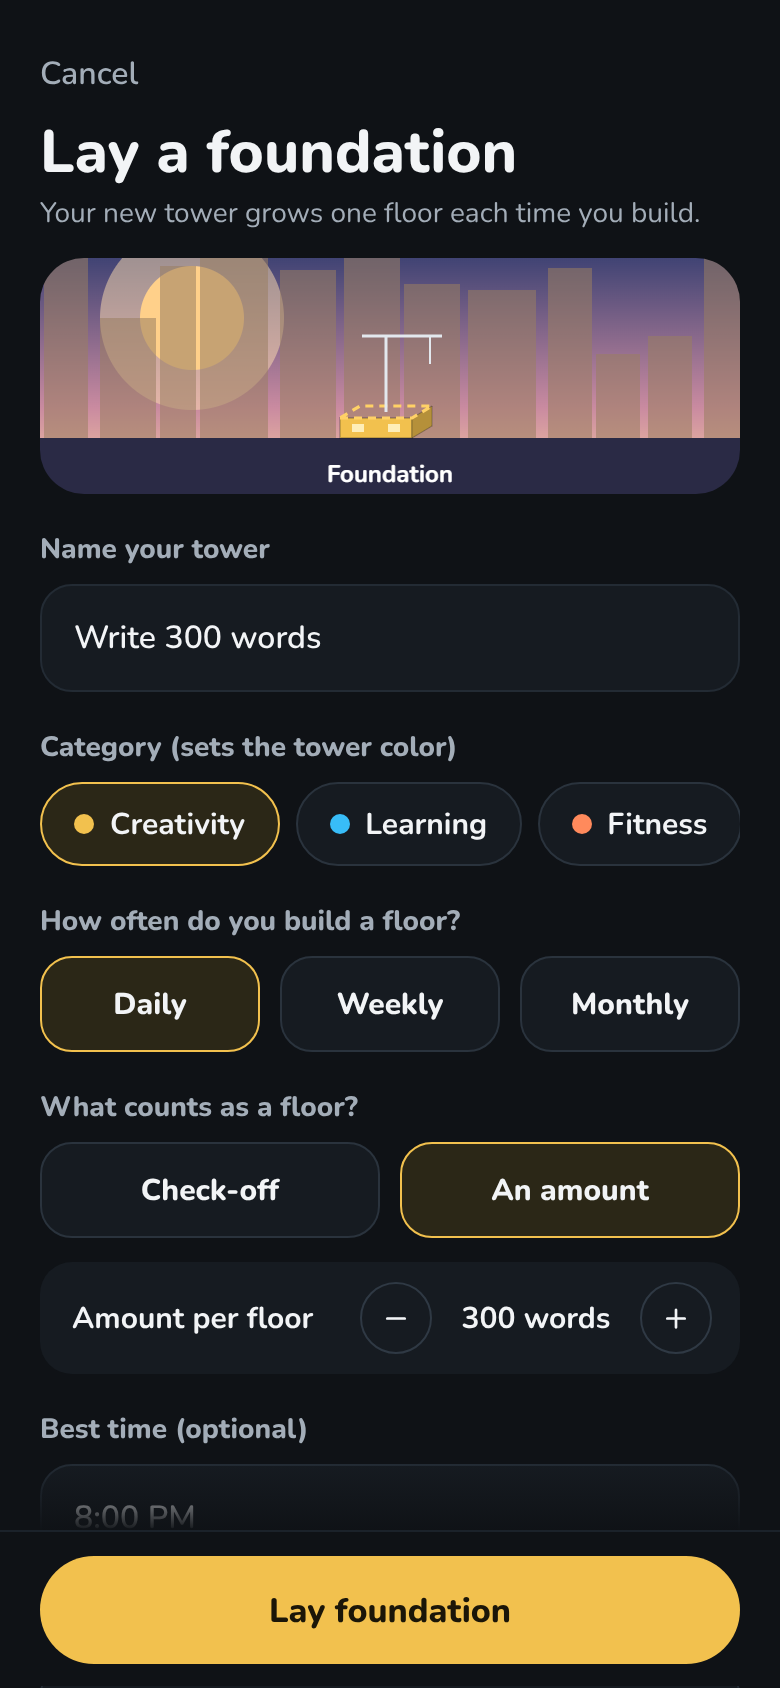
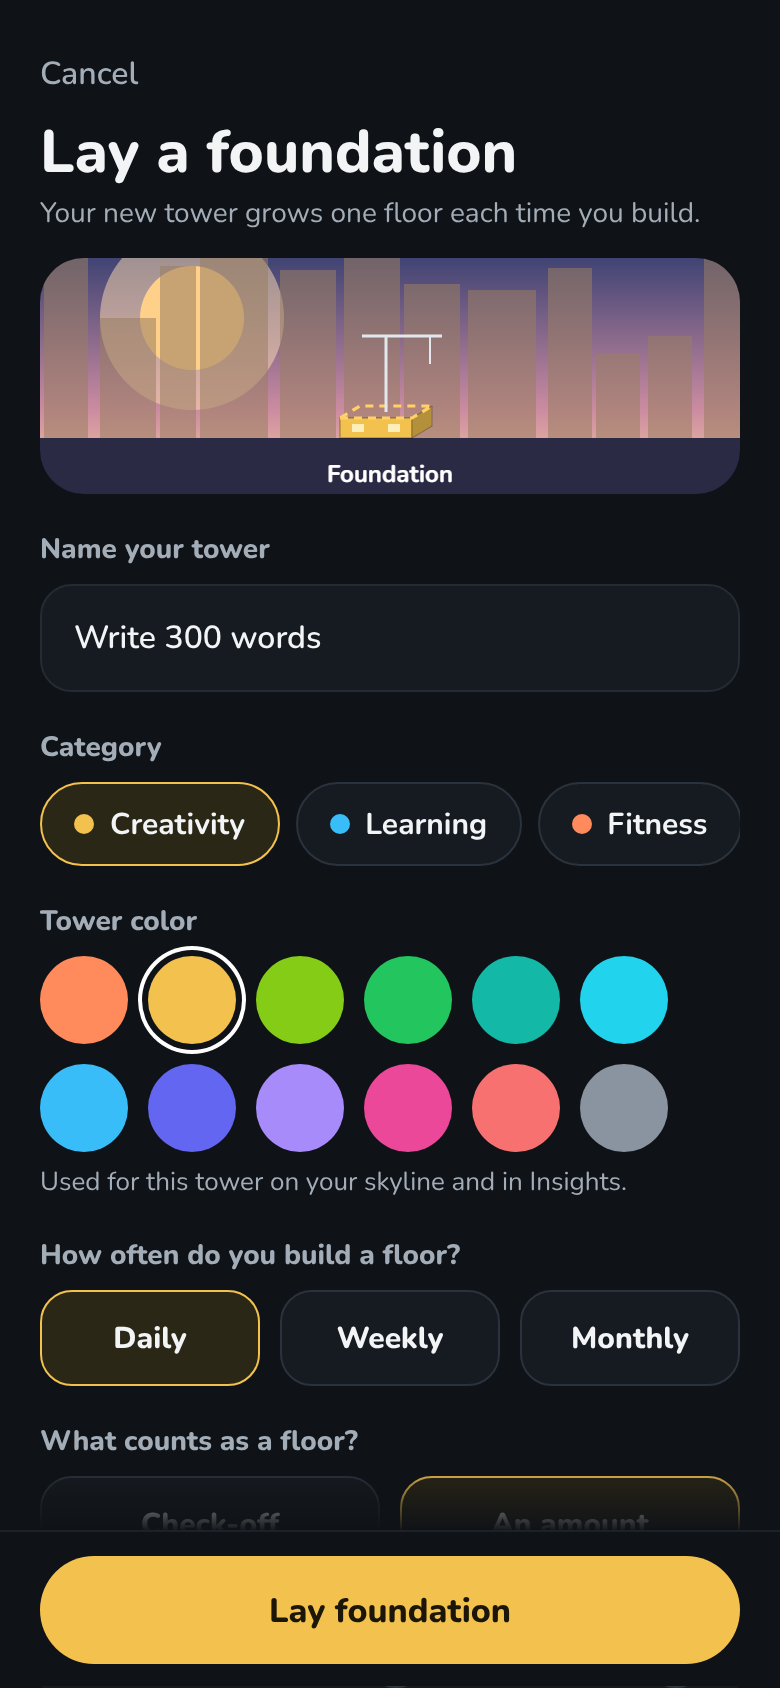
Design: tower color picker on create and edit forms (owner decision: distinct, user-picked colour per habit)
Claude-Session: https://claude.ai/code/session_01UvWD32uMFJU1E2B9jDYiLg

diff --git a/design/skyline/source/new.js b/design/skyline/source/new.js
@@ -118,11 +118,12 @@ const stepRow=(l,v)=>`<div style="margin-top:12px;height:56px;border-radius:16px
 const banner=(f)=>`<div style="width:350px;height:118px;border-radius:22px;overflow:hidden;position:relative;margin-top:12px"><img src="${SK}${f}" style="position:absolute;width:390px;left:-20px;top:-110px"></div>`;
 const formPage=(title,sub,ban,body,cta,extraFooter='')=>`<div style="position:absolute;inset:0;overflow:hidden"><div style="padding:26px 20px 0;height:100%;overflow:hidden"><div style="color:#A3ADB8;font-size:16px;font-weight:600">Cancel</div><h1 style="font-size:30px;margin-top:12px;line-height:1.1">${title}</h1><div style="color:#A3ADB8;font-size:14px;margin-top:4px;line-height:1.4">${sub}</div>${ban||''}${body}</div>
  <div style="position:absolute;left:0;right:0;bottom:0;height:${extraFooter?150:112}px"><div style="height:34px;background:linear-gradient(rgba(15,18,22,0),#0F1216)"></div><div style="background:#0F1216;border-top:1px solid #1B222A;padding:12px 20px 18px;height:calc(100% - 34px);margin-top:-1px">${cta}${extraFooter}</div></div></div>`;
+const swatches=(on)=>`<div style="display:flex;gap:10px;flex-wrap:wrap">${['#FF8A5C','#F2C14E','#84CC16','#22C55E','#14B8A6','#22D3EE','#38BDF8','#6366F1','#A78BFA','#EC4899','#F87171','#8A93A0'].map((c,i)=>`<div style="width:44px;height:44px;border-radius:22px;background:${c};${i===on?'box-shadow:0 0 0 3px #0F1216,0 0 0 5px #fff':''}"></div>`).join('')}</div>`;
 const cta=(t)=>`<div style="height:54px;border-radius:27px;background:#F2C14E;color:#1b1608;font-weight:800;font-size:17px;display:flex;align-items:center;justify-content:center">${t}</div>`;
 const chip=(t,c,on)=>`<div style="height:42px;border-radius:21px;padding:0 16px;display:flex;align-items:center;gap:8px;font-weight:700;font-size:15px;white-space:nowrap;${on?'background:#2B2717;border:1.5px solid #F2C14E':'background:#161B21;border:1px solid #2A333D'}"><i style="width:10px;height:10px;border-radius:50%;background:${c};display:block"></i>${t}</div>`;
 if(S2==='fo-new'){
   R.innerHTML=formPage('Lay a foundation','Your new tower grows one floor each time you build.',banner('superseded/12-newtower-v1.png'),
-   lab('Name your tower')+inp('Write 300 words')+lab('Category (sets the tower color)')+`<div style="display:flex;gap:8px;overflow:hidden">${chip('Creativity','#F2C14E',1)}${chip('Learning','#38BDF8')}${chip('Fitness','#FF8A5C')}${chip('Sleep','#A78BFA')}</div>`+lab('How often do you build a floor?')+seg2(['Daily','Weekly','Monthly'],0)+lab('What counts as a floor?')+seg2(['Check-off','An amount'],1)+stepRow('Amount per floor','300 words')+lab('Best time (optional)')+inp('8:00 PM')+lab('Why does this matter? (optional)')+inp('So the book gets finished'),
+   lab('Name your tower')+inp('Write 300 words')+lab('Category')+`<div style="display:flex;gap:8px;overflow:hidden">${chip('Creativity','#F2C14E',1)}${chip('Learning','#38BDF8')}${chip('Fitness','#FF8A5C')}${chip('Sleep','#A78BFA')}</div>`+lab('Tower color')+swatches(1)+hint('Used for this tower on your skyline and in Insights.')+lab('How often do you build a floor?')+seg2(['Daily','Weekly','Monthly'],0)+lab('What counts as a floor?')+seg2(['Check-off','An amount'],1)+stepRow('Amount per floor','300 words')+lab('Best time (optional)')+inp('8:00 PM')+lab('Why does this matter? (optional)')+inp('So the book gets finished'),
    cta('Lay foundation'));
 }
 if(S2==='fo-shared'){
@@ -138,7 +139,7 @@ if(S2==='fo-landmark'){
 }
 if(S2==='fo-edit'){
   R.innerHTML=formPage('Edit tower','Changes apply from today. Your floors and run stay as they are.','',
-   lab('Name your tower')+inp('Write 300 words')+lab('Category (sets the tower color)')+`<div style="display:flex;gap:8px;overflow:hidden">${chip('Creativity','#F2C14E',1)}${chip('Learning','#38BDF8')}${chip('Fitness','#FF8A5C')}${chip('Sleep','#A78BFA')}</div>`+lab('How often do you build a floor?')+seg2(['Daily','Weekly','Monthly'],0)+lab('What counts as a floor?')+seg2(['Check-off','An amount'],1)+stepRow('Amount per floor','300 words')+lab('Best time (optional)')+inp('8:00 PM')+lab('Why does this matter? (optional)')+inp('So the book gets finished')+lab('Top out after (days)')+`<div style="margin-top:0;height:56px;border-radius:16px;background:#161B21;display:flex;align-items:center;justify-content:space-between;padding:0 14px 0 16px"><b style="font-size:15px">Days</b><div style="display:flex;align-items:center;gap:14px"><div style="width:36px;height:36px;border-radius:18px;border:1px solid #2F3944;display:flex;align-items:center;justify-content:center;font-size:20px">−</div><b style="font-size:15px;min-width:76px;text-align:center">30</b><div style="width:36px;height:36px;border-radius:18px;border:1px solid #2F3944;display:flex;align-items:center;justify-content:center;font-size:20px">+</div></div></div>`+hint('How old this tower must be before you can top it out and start a new one.'),
+   lab('Name your tower')+inp('Write 300 words')+lab('Category')+`<div style="display:flex;gap:8px;overflow:hidden">${chip('Creativity','#F2C14E',1)}${chip('Learning','#38BDF8')}${chip('Fitness','#FF8A5C')}${chip('Sleep','#A78BFA')}</div>`+lab('Tower color')+swatches(1)+hint('Used for this tower on your skyline and in Insights.')+lab('How often do you build a floor?')+seg2(['Daily','Weekly','Monthly'],0)+lab('What counts as a floor?')+seg2(['Check-off','An amount'],1)+stepRow('Amount per floor','300 words')+lab('Best time (optional)')+inp('8:00 PM')+lab('Why does this matter? (optional)')+inp('So the book gets finished')+lab('Top out after (days)')+`<div style="margin-top:0;height:56px;border-radius:16px;background:#161B21;display:flex;align-items:center;justify-content:space-between;padding:0 14px 0 16px"><b style="font-size:15px">Days</b><div style="display:flex;align-items:center;gap:14px"><div style="width:36px;height:36px;border-radius:18px;border:1px solid #2F3944;display:flex;align-items:center;justify-content:center;font-size:20px">−</div><b style="font-size:15px;min-width:76px;text-align:center">30</b><div style="width:36px;height:36px;border-radius:18px;border:1px solid #2F3944;display:flex;align-items:center;justify-content:center;font-size:20px">+</div></div></div>`+hint('How old this tower must be before you can top it out and start a new one.'),
    cta('Save changes'),`<div style="text-align:center;margin-top:10px;font-weight:800;font-size:14.5px;color:#C9CED4;height:44px;display:flex;align-items:center;justify-content:center">Delete tower</div>`);
 }
 

diff --git a/design/skyline/README.md b/design/skyline/README.md
@@ -20,7 +20,7 @@ This is the only folder of Skyline mockups. The old `concept _screens/` folder w
 | 09 | `09-challenges.png` | Community, challenges | 6 | interaction only (not re-checked tower by tower) |
 | 10 | `10-sharedhabit.png` | Shared habit (skybridge) | 6 | interaction only (past floors drawn without windows) |
 | 11 | `11-challenge.png` | Challenge (landmark) | 6 | interaction only (not re-checked tower by tower) |
-| 12 | `12-newtower.png` | Lay a foundation form (create) | 4 | **PROPOSAL, redrawn 2026-11-16, awaiting owner approval.** The submit button now sits in a pinned footer with a fade, so the last field is no longer drawn under it. The subtitle says "build" instead of "check in" (skyline wording). Same fields as the old board; the real form has more (times per day, weekly/monthly target, remind me) that are not drawn. There is no top-out field on create because the create request does not accept one; it is on the edit form (board 45). |
+| 12 | `12-newtower.png` | Lay a foundation form (create) | 4 | **PROPOSAL, redrawn 2026-11-16, awaiting owner approval.** The submit button now sits in a pinned footer with a fade, so the last field is no longer drawn under it. The subtitle says "build" instead of "check in" (skyline wording). Same fields as the old board; the real form has more (times per day, weekly/monthly target, remind me) that are not drawn. There is no top-out field on create because the create request does not accept one; it is on the edit form (board 45). | **2026-11-16 (owner):** forms approved as drawn, plus a new "Tower color" picker (12 swatches, one per tower, matching on the skyline and in Insights). The label "Category (sets the tower color)" became "Category". The swatch palette and the default for new and existing towers are my proposals, awaiting approval.
 | 13 | `13-newshared.png` | Build together form | 4 | **PROPOSAL, redrawn 2026-11-16.** Pinned footer; the two hidden "What friends see" options are now drawn (Full details, Status only, from the app). |
 | 14 | `14-newchallenge.png` | Raise a landmark form | 4 | **PROPOSAL, redrawn 2026-11-16.** The subtitle wraps to two lines instead of running under the banner; the time box stays on one row; pinned footer. |
 | 15 | `15-profile.png` | Profile | 7 | interaction only (the "Your skyline so far" towers use old floor art) |
@@ -49,7 +49,7 @@ This is the only folder of Skyline mockups. The old `concept _screens/` folder w
 | 42 | `42-ask-habituate-empty.png` | Ask Habituate, empty state with starter questions | 7 | **APPROVED by the owner 2026-11-16.** Starter questions are generated from the user's habits in the app; the three shown and the heading text are my sample copy. |
 | 43 | `43-friend-skyline-public.png` | Friend skyline, public profile | 6 | **PROPOSAL, awaiting approval (revised 2026-11-16 per the owner).** Towers without habit names: heights and colours only, with the existing overview stats and shared habits below. Needs a new friendship-gated endpoint that returns tower heights and colours but no names. |
 | 44 | `44-friend-skyline-private.png` | Friend skyline, private profile | 6 | **PROPOSAL, awaiting approval.** Only the shared-habit towers you both belong to, joined by a skybridge, plus the existing "keeps their stats private" note. Needs floor and run data for shared towers, which the server does not return today. |
-| 45 | `45-edit-tower.png` | Edit tower form | 4 | **PROPOSAL, awaiting owner approval (2026-11-16).** Same fields as board 12 plus "Top out after (days)" (default 30) with its existing sublabel, then Save changes and Delete tower. The subtitle is my wording. The real form has more fields than drawn (times per day, weekly/monthly target, remind me, feature on Goals). |
+| 45 | `45-edit-tower.png` | Edit tower form | 4 | **PROPOSAL, awaiting owner approval (2026-11-16).** Same fields as board 12 plus "Top out after (days)" (default 30) with its existing sublabel, then Save changes and Delete tower. The subtitle is my wording. The real form has more fields than drawn (times per day, weekly/monthly target, remind me, feature on Goals). | **2026-11-16 (owner):** forms approved as drawn, plus a new "Tower color" picker (12 swatches, one per tower, matching on the skyline and in Insights). The label "Category (sets the tower color)" became "Category". The swatch palette and the default for new and existing towers are my proposals, awaiting approval.
 
 `superseded/` keeps old versions and boards that were not chosen (01, 03, 06, 07, 22, 23, 25). Don't build from them.
 
